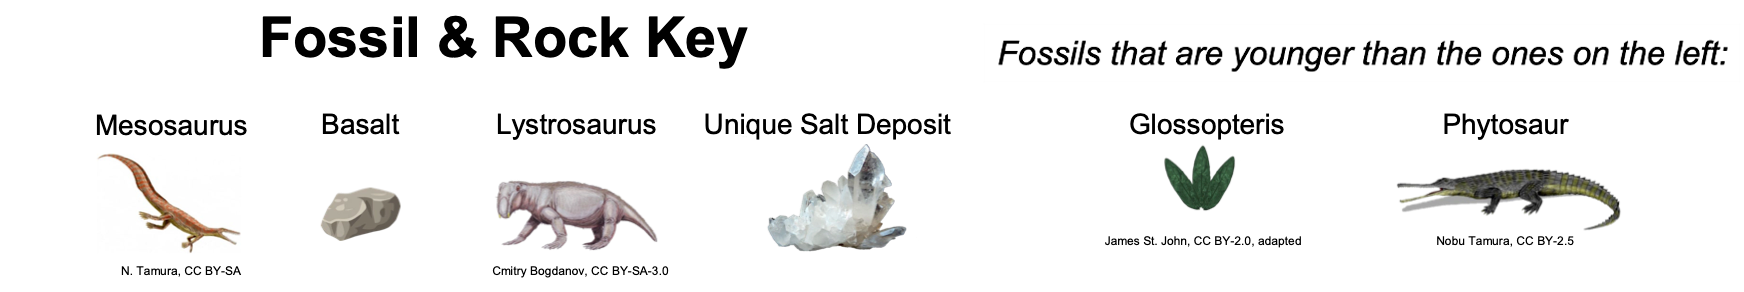
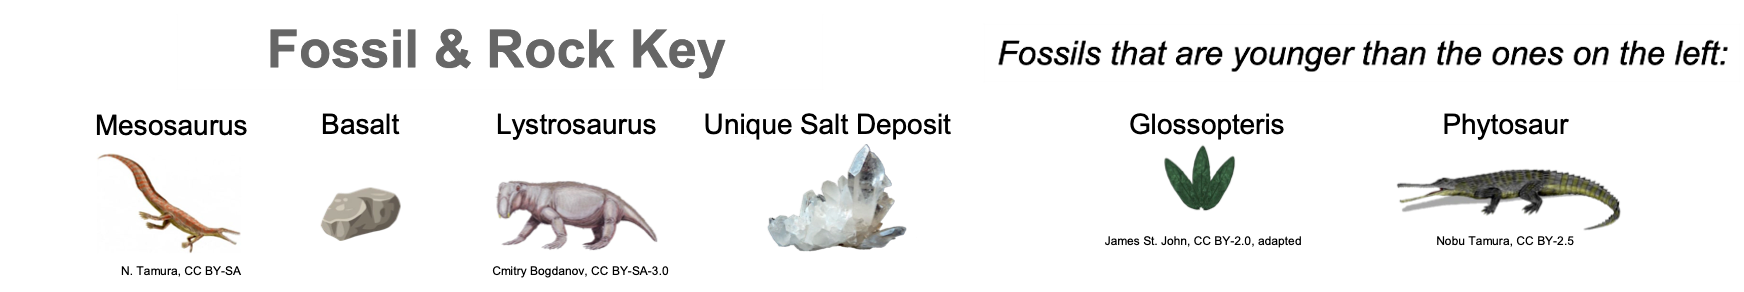
Small changes

Changed region(s): [[0.1239, 0.0308, 0.4335, 0.2774]]

diff --git a/phaser_game.js b/phaser_game.js
@@ -44,9 +44,10 @@ class Game extends Phaser.Scene {
 
     create () {
         let { width, height } = this.sys.game.canvas;
-        let fossil_key = this.add.image(width/2, height-110, 'fossil_key');
-        fossil_key.displayWidth = width - 300;
-        fossil_key.displayHeight = fossil_key.height * (width - 300) / fossil_key.width;
+        let fossil_key = this.add.image(width/2, height-100, 'fossil_key');
+        let scale = 0.75;
+        fossil_key.displayWidth = scale * (width - 300);
+        fossil_key.displayHeight = scale * fossil_key.height * (width - 300) / fossil_key.width;
 
         let x = 100, y = 250;
         continents.forEach(continent => {
